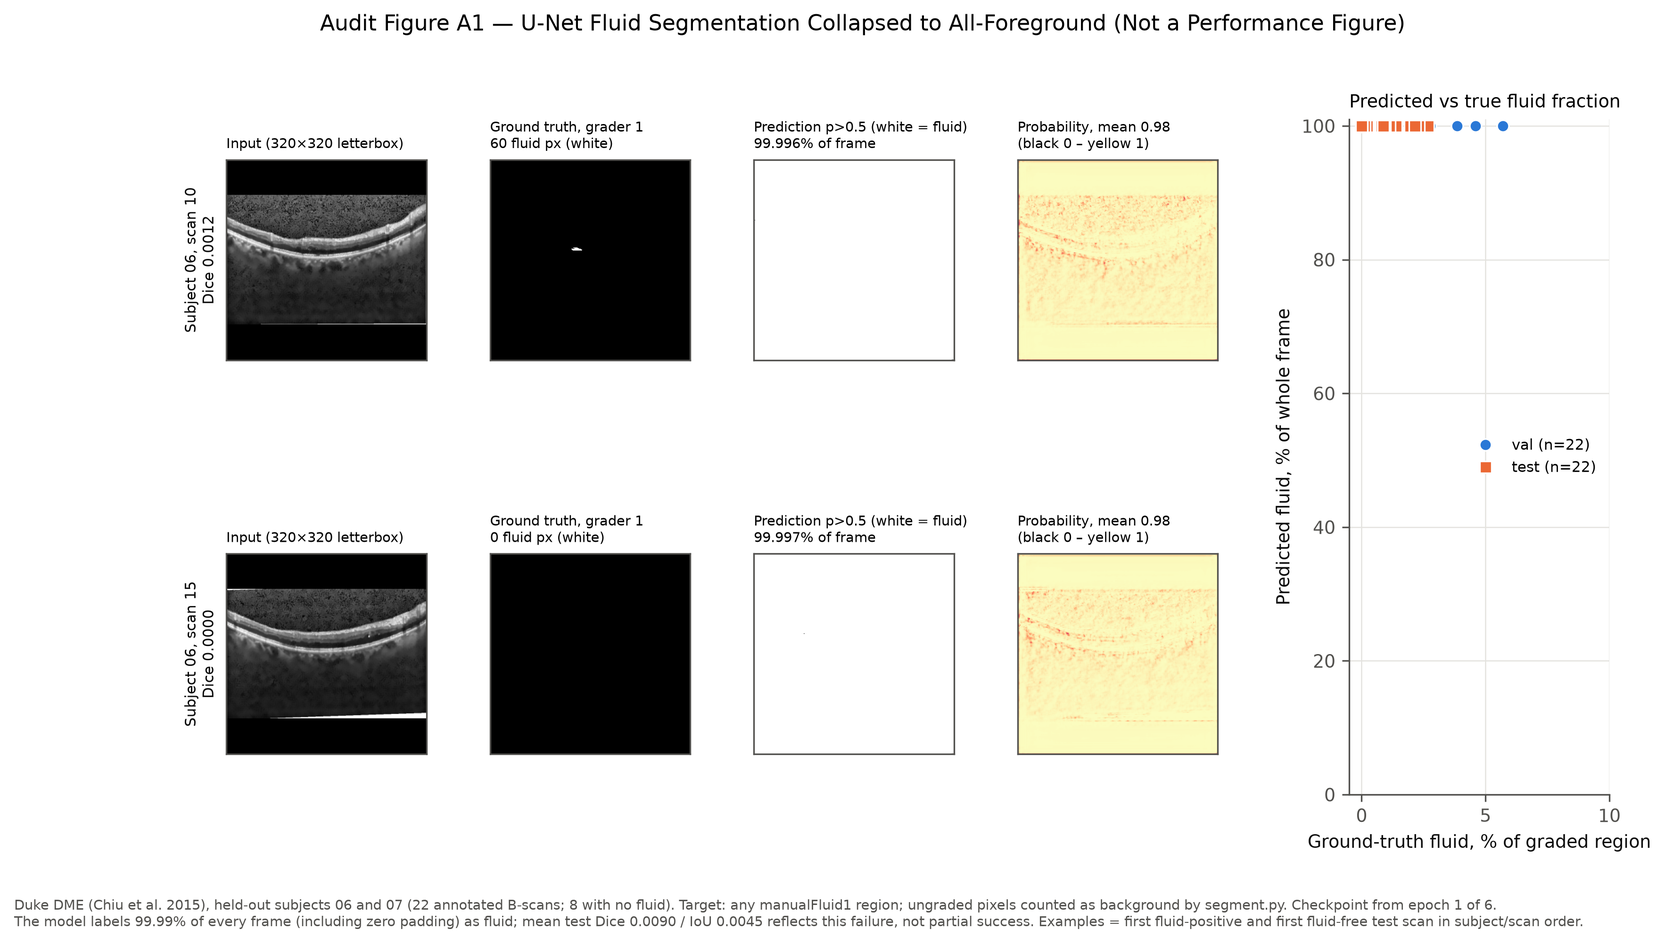
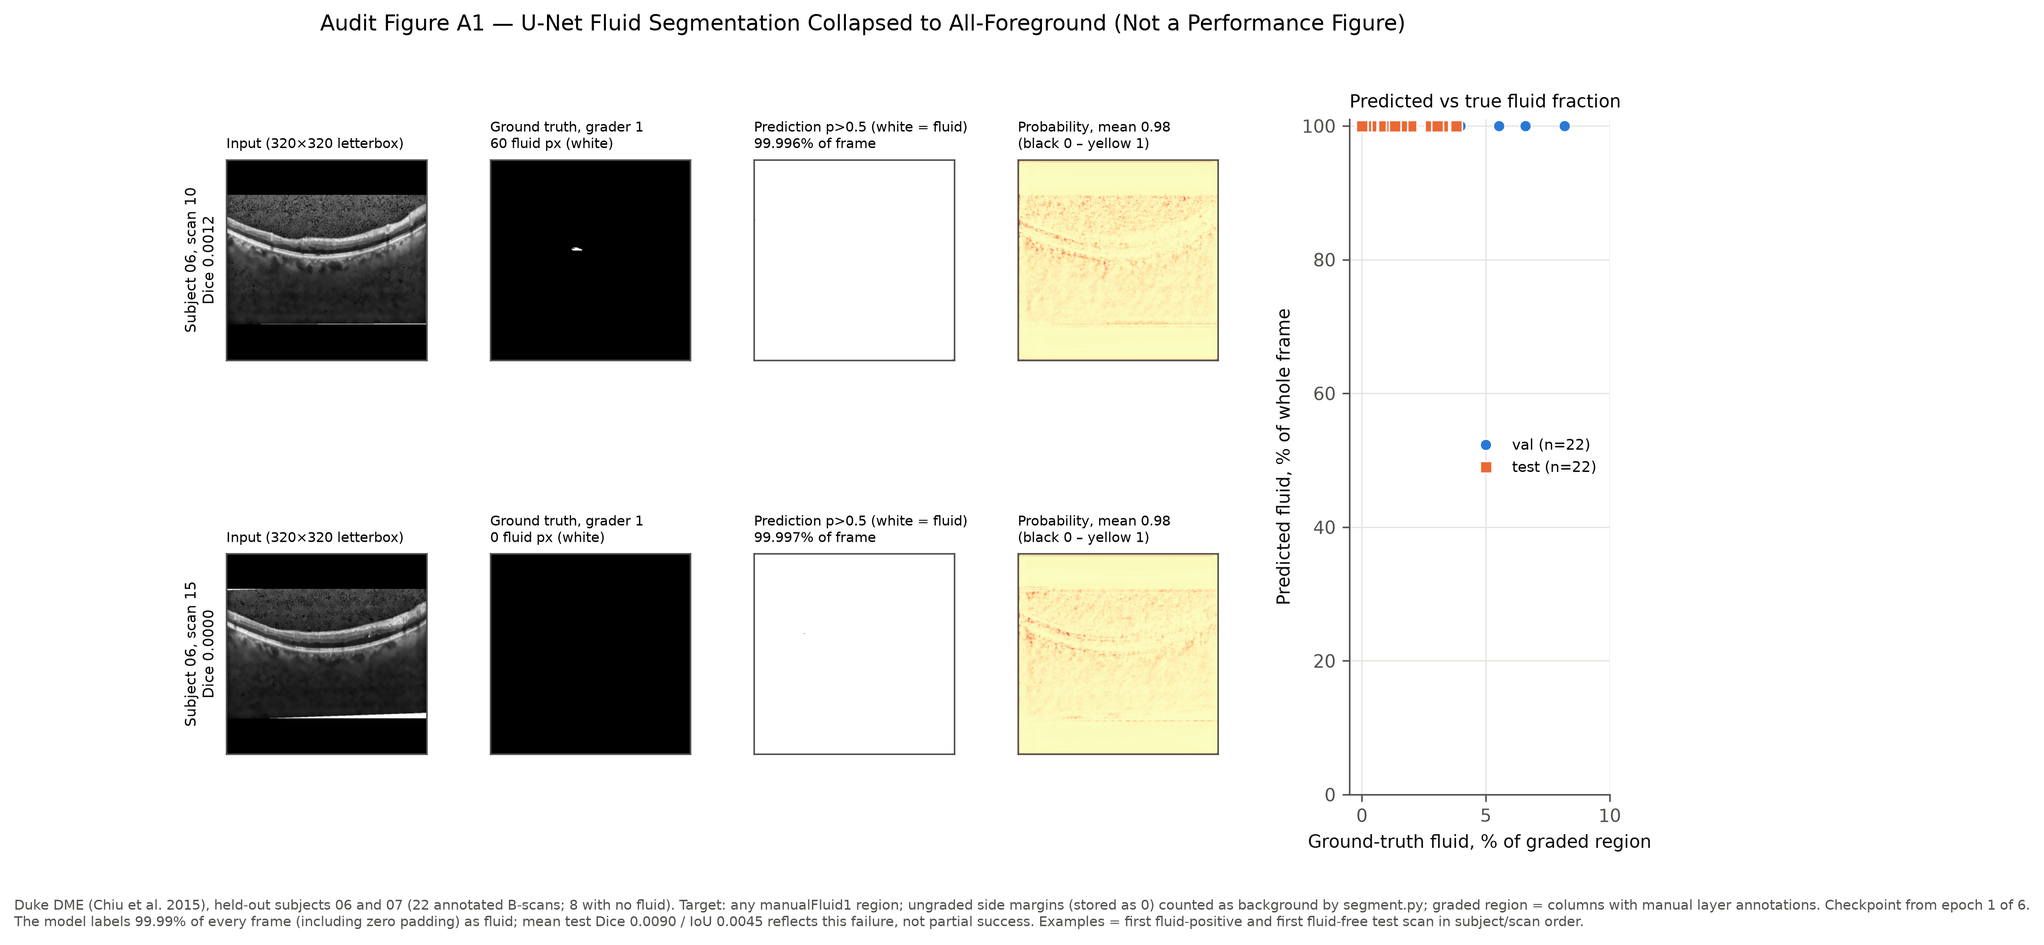
Use the manualLayers column band as the graded region in the segmentation audit
Duke 2015 manualFluid1/2 contain no NaN: the ungraded side margins are stored
as 0. Script 05's ~isnan(manualFluid1) mask therefore covered the whole frame.
The graded region is now the column band where manualLayers1 has coordinates
(500-542 of 768 columns), intersected with the non-NaN mask.

Verified on all 44 val/test scans:
- 0 NaN fluid pixels;
- 0 fluid pixels outside the band for either grader;
- the bands are identical for both graders.

Rerun results (graded-only Dice):
- test 0.0138 -> 0.0196 (pooled 0.0139 -> 0.0204);
- val 0.0212 -> 0.0300 (pooled 0.0217 -> 0.0308).
- Unchanged: pipeline-convention Dice 0.0090, inter-grader Dice 0.758 /
  0.522, and the collapse finding.

Docs corrected: metric_verification.md B4 (NaN premise and graded-only
values), inventory C6, report section 10, the checklist B4 row and issue 4
(now resolved), the Table 1 note, and the Figure A1 caption.
11/11 checks pass; checkpoints and source results are unchanged.

diff --git a/research_outputs/scripts/05_segmentation_audit.py b/research_outputs/scripts/05_segmentation_audit.py
@@ -8,8 +8,12 @@ constructor and Dice/IoU functions, then adds what the original evaluation
 did not report:
   * predicted and ground-truth foreground fractions per image (detects
     "predict everything" / "predict nothing" collapse)
-  * Dice/IoU with segment.py's convention (ungraded NaN -> background) AND
-    restricted to the manually graded region only
+  * Dice/IoU with segment.py's convention (whole frame, ungraded -> background) AND
+    restricted to the manually graded region only. The graded region is the
+    column band where manualLayers1 has coordinates: manualFluid1/2 contain no
+    NaN, and the ungraded side margins are stored as 0 (same as "no fluid").
+    (Corrected 2026-10-28; the first version used ~isnan(manualFluid1), which
+    covers the whole frame.)
   * pooled (pixel-aggregated) Dice in addition to the per-image mean
   * explicit counts of empty-ground-truth images and how they score
   * grader-1 vs grader-2 agreement on the same scans, as a human reference
@@ -60,7 +64,11 @@ def main():
             img = sub["images"][pos]
             f1_raw, f2_raw = sub["fluid1"][pos], sub["fluid2"][pos]
             gt1 = S.binarize_fluid(f1_raw); gt2 = S.binarize_fluid(f2_raw)
-            graded1 = (~np.isnan(f1_raw)).astype(np.uint8)
+            # Graded region = the columns where grader 1 traced layer boundaries. manualFluid stores
+            # ungraded side margins as 0 (no NaN anywhere), so ~isnan(fluid) would be the whole frame.
+            band = ~np.all(np.isnan(sub["layers1"][pos]), axis=0)
+            band2 = ~np.all(np.isnan(sub["layers2"][pos]), axis=0)
+            graded1 = (np.broadcast_to(band, f1_raw.shape) & ~np.isnan(f1_raw)).astype(np.uint8)
             rgb, gt1_lb = S.preprocess_pair(img, gt1)
             _, gt2_lb = S.preprocess_pair(img, gt2)
             _, graded_lb = S.preprocess_pair(img, graded1)
@@ -79,6 +87,9 @@ def main():
             rows.append({
                 "split": split_name, "subject": e["subject"], "scan_idx": e["scan_idx"],
                 "gt_fluid_pixels": int(gt1_lb.sum()), "gt_empty": bool(gt1_lb.sum() == 0),
+                "graded_columns": int(band.sum()), "graded_band_same_both_graders": bool(np.array_equal(band, band2)),
+                "nan_fluid_pixels": int(np.isnan(f1_raw).sum()),
+                "gt1_fluid_outside_band": int(gt1[:, ~band].sum()), "gt2_fluid_outside_band": int(gt2[:, ~band].sum()),
                 "graded_pixels": int(g.sum()), "frame_pixels": int(pred.size), "content_pixels": int(content.sum()),
                 "pred_fluid_pixels": int(pred.sum()), "pred_frac_of_frame": float(pred.mean()), "pred_frac_of_graded": float(pred[g].mean()) if g.any() else np.nan,
                 "gt_frac_of_graded": float(gt1_lb[g].mean()) if g.any() else np.nan,
@@ -107,6 +118,10 @@ def main():
             "mean_gt_frac_of_graded": d.gt_frac_of_graded.mean(), "mean_prob": d.mean_prob.mean(),
             "inter_grader_mean_dice_graded": d.dice_grader2_vs_grader1_graded.mean(),
             "inter_grader_mean_dice_graded_fluid_positive": d[~d.gt_empty].dice_grader2_vs_grader1_graded.mean(),
+            "graded_columns_min_max": [int(d.graded_columns.min()), int(d.graded_columns.max())],
+            "graded_band_same_both_graders_all": bool(d.graded_band_same_both_graders.all()),
+            "nan_fluid_pixels_total": int(d.nan_fluid_pixels.sum()),
+            "fluid_pixels_outside_band_total": int(d.gt1_fluid_outside_band.sum() + d.gt2_fluid_outside_band.sum()),
         }
     with open(OUT / "segmentation_summary.json", "w") as f:
         json.dump(summ, f, indent=2, default=float)

diff --git a/research_outputs/scripts/08_make_figures.py b/research_outputs/scripts/08_make_figures.py
@@ -323,7 +323,7 @@ def figure_a1():
     ax.set(xlim=(-0.5, 10), ylim=(0, 101), xlabel="Ground-truth fluid, % of graded region", ylabel="Predicted fluid, % of whole frame")
     ax.set_title("Predicted vs true fluid fraction", loc="left", fontsize=9); ax.legend(fontsize=7.5, loc="center right")
     fig.suptitle("Audit Figure A1 — U-Net Fluid Segmentation Collapsed to All-Foreground (Not a Performance Figure)", fontsize=11, y=1.0)
-    fig.text(0.0, -0.04, "Duke DME (Chiu et al. 2015), held-out subjects 06 and 07 (22 annotated B-scans; 8 with no fluid). Target: any manualFluid1 region; ungraded pixels counted as background by segment.py. "
+    fig.text(0.0, -0.04, "Duke DME (Chiu et al. 2015), held-out subjects 06 and 07 (22 annotated B-scans; 8 with no fluid). Target: any manualFluid1 region; ungraded side margins (stored as 0) counted as background by segment.py; graded region = columns with manual layer annotations. "
              "Checkpoint from epoch 1 of 6.\nThe model labels 99.99% of every frame (including zero padding) as fluid; mean test Dice 0.0090 / IoU 0.0045 reflects this failure, not partial success. "
              "Examples = first fluid-positive and first fluid-free test scan in subject/scan order.", fontsize=7, color=INK2)
     save(fig, "figureA1_segmentation_audit", pd.DataFrame(rows))

diff --git a/research_outputs/scripts/09_make_tables.py b/research_outputs/scripts/09_make_tables.py
@@ -68,7 +68,7 @@ def main():
          "Eyes / volumes": "10 volumes (61 B-scans each; 11 annotated)", "DME-positive": "NA (all DME subjects)", "DME-negative (Normal)": "NA",
          "Split": f"train 6 / val 2 ({', '.join(seg['val']['subjects'])}) / test 2 ({', '.join(seg['test']['subjects'])}) subjects", "Unit of splitting": "patient",
          "Dimensionality": "2D B-scan", "OCT device": "Heidelberg Spectralis according to the dataset paper (prior knowledge, not re-verified)", "Label source": "manual fluid masks, grader 1 (manualFluid1)",
-         "Independent of training": "Yes (disjoint subjects)", "Notes": "Ungraded (NaN) pixels treated as background by segment.py."},
+         "Independent of training": "Yes (disjoint subjects)", "Notes": "Only a central column band (500-542 of 768 columns) is graded; the ungraded margins are stored as 0, not NaN, so segment.py counts them as background."},
     ]
     write(pd.DataFrame(t1), "table1_dataset_setup", "Table 1. Dataset and experimental setup",
           "Counts computed from files on disk (research_outputs/data/image_hashes.csv). Patient = ID parsed from the Kermany filename; eye and volume identity are not available. No patient counts are inferred from image counts.")

diff --git a/research_outputs/final_audit_checklist.md b/research_outputs/final_audit_checklist.md
@@ -36,7 +36,7 @@ Automated results: `research_outputs/data/final_checks.json` (from `scripts/10_f
 | B2 | Undefined metrics handled explicitly | **PASS** | NaN logic in `04_compute_metrics.py`; none occurred |
 | B3 | 14-point leakage audit | **PASS** | `leakage_audit.md` §1 |
 | B3 | Metadata/dimension-only shortcut classifier | **PASS** | Test AUROC 0.31; unseen-pool AUROC 0.72 |
-| B4 | Segmentation independently re-evaluated | **PASS** (pipeline-convention Dice reconstructed) · graded-region metrics **DEFECT** · segmentation model itself **FAIL** (collapsed) | Dice 0.0090 reproduced; all-foreground collapse documented. The 'graded-only' variant in script 05 masks `~isnan(manualFluid)`, but Duke 2015 stores ungraded side margins as 0, not NaN (verified: 0 NaN pixels; graded columns 118–653 of 768 on Subject_01), so it covers the whole frame. See unresolved issue 4 |
+| B4 | Segmentation independently re-evaluated | **PASS** (reconstructed; graded-region mask corrected) · segmentation model itself **FAIL** (collapsed) | Dice 0.0090 reproduced; all-foreground collapse documented. Graded-only metrics now use the `manualLayers` column band (500–542 of 768 columns; 0 NaN fluid pixels and 0 fluid pixels outside the band on all 44 val/test scans): test Dice 0.0196 (previously 0.0138 on a whole-frame mask); inter-grader Dice unchanged (0.758) |
 | B5 | Calibration audited | **PASS** | Raw vs calibrated reported separately; no material change claimed |
 | B5 | Grad-CAM audited | **PASS** (protocol reviewed) | Not regenerated; no clinical-reasoning claim made |
 | C | 2021 paper read in full incl. supplement | **PASS** | PMC HTML + figshare supplementary tables and methods |
@@ -75,6 +75,6 @@ Audit outputs were added in new directories. The only existing files modified ar
 1. ~~Tuned thresholds and temperatures are invalid~~ **Resolved:** refit on the rebuilt training-time validation split (scripts 11–12). Residual caveat: on the easier test set the refit operating points give perfect or near-perfect counts, and refit scaling worsens test ECE for B3 and B0; validation specificity at 97% sensitivity (0.956–0.982) is the more realistic figure.
 2. **External evidence is limited.** OCTDL (Optovue; AUROC 0.993–0.999, sensitivity at 0.5 0.93–0.96), Duke 2014 (volume AUROC 1.000, but the pre-specified max rule flags 4–9 of 15 normal volumes from off-centre slices) and Duke 2015 (DME only; sensitivity 0.95–0.96) are small public sets, not a clinical cohort. The official test set also appears unrepresentative (easier). The unseen-pool estimate (AUROC 0.996–0.997, accuracy 97.1–97.5%) is the more conservative internal figure.
 3. ~~B0 test-patient exclusion cannot be confirmed from a log~~ **Resolved:** verified via run `20260920T095427Z` (bitwise-identical weights; exclusion logged).
-4. **The segmentation model is non-functional**, and its ground-truth handling of ungraded pixels is flawed. The audit's own 'graded-only' re-evaluation (script 05) has the same flaw: ungraded margins are stored as 0, so its graded mask is the whole frame. The graded region is the column band where `manualLayers` has coordinates. Affected: the model's 'graded-only' Dice in `segmentation_summary.json` (test 0.0138, val 0.0212), which is effectively whole-frame, and the NaN premise in `metric_verification.md` B4 and inventory item C6. Unaffected: the collapse finding, the pipeline-convention Dice (0.0090) and the inter-grader Dice (0.758 test / 0.522 val), because neither grader marks fluid outside the band. Fix: recompute script 05 with the band as the graded mask.
+4. **The segmentation model is non-functional**, and its ground-truth handling of ungraded pixels is flawed (ungraded margins are stored as 0, so `segment.py` scores them as background). ~~The audit's own graded-only re-evaluation used a whole-frame mask~~ **Resolved:** script 05 now uses the `manualLayers` column band as the graded region. Graded-only test Dice is 0.0196 / pooled 0.0204 (val 0.0300 / 0.0308), up from the whole-frame 0.0138; `metric_verification.md` B4, inventory C6 and report §10 are corrected. The collapse finding, the pipeline-convention Dice (0.0090) and the inter-grader Dice (0.758 test / 0.522 val) are unchanged.
 5. ~~Zhu 2025 online supplementary tables not retrieved~~ **Resolved:** supplement read in full. Confusion matrices recompute every metric; per-device and reader-comparison rows were added to `literature_extraction.csv`.
 6. ~~Kermany device and grading details from prior knowledge~~ **Resolved:** verified against the published STAR Methods (archived Cell full text): Spectralis OCT; five centres; July 2013 – March 2017; three-tier grading (students → four ophthalmologists → two senior retinal specialists).

diff --git a/research_outputs/tables/table1_dataset_setup.md b/research_outputs/tables/table1_dataset_setup.md
@@ -5,6 +5,6 @@
 | Kermany OCT2017 (Cell 2018), DME+NORMAL | train/ folder, training pool after exclusion | 30,160 | 3,472 | NR (not encoded in Kermany filenames) | 7,072 | 23,088 | train + validation (StratifiedGroupKFold 5-fold, 1 fold val) | patient | 2D B-scan | Heidelberg Spectralis (Kermany et al. 2018, STAR Methods, verified from the published text; not recorded per image) | Kermany et al. 2018 class folders; three-tier grading (students, 4 ophthalmologists, 2 senior retinal specialists) per STAR Methods | NA | Kaggle runs: train 24,600 / val 5,560 (logged). Per-class split of these two subsets not logged; the local re-run of build_splits gives a different partition (scikit-learn version). |
 | Kermany OCT2017 | test/ folder (official test split) | 484 | 368 | NR (not encoded in Kermany filenames) | 242 | 242 | held-out test | patient (fixed by dataset authors) | 2D B-scan | Heidelberg Spectralis (Kermany et al. 2018, STAR Methods, verified from the published text; not recorded per image) | Kermany et al. 2018 class folders; three-tier grading (students, 4 ophthalmologists, 2 senior retinal specialists) per STAR Methods | Yes, at patient level after exclusion of 305 shared patients from train/val | 368 patients; 6 patients have both DME and Normal images; 0 exact duplicates with the training pool; distribution differs from training (no 512x512 images). |
 | Kermany OCT2017 | train/ images of the 305 test-set patients (excluded from training) | 7,503 | 305 | NR (not encoded in Kermany filenames) | 4,276 | 3,227 | supplementary unseen evaluation pool (NEW in this audit) | patient | 2D B-scan | Heidelberg Spectralis (Kermany et al. 2018, STAR Methods, verified from the published text; not recorded per image) | Kermany et al. 2018 class folders; three-tier grading (students, 4 ophthalmologists, 2 senior retinal specialists) per STAR Methods | Not used for training/validation (verified for B3, ResNet-50; implied for B0); NOT independent of the test set (same patients; 114 byte-identical copies of test images) | All 7,503 images decoded with cv2.imread during re-inference. Across train/+test/, 25 truncated JPEGs are rejected by cv2.imdecode but decode with cv2.imread (with a 'Premature end of JPEG' warning); 0 are unreadable. |
-| Duke DME (Chiu et al. BOE 2015) | segmentation (U-Net) | 110 annotated B-scans | 10 | 10 volumes (61 B-scans each; 11 annotated) | NA (all DME subjects) | NA | train 6 / val 2 (01, 08) / test 2 (06, 07) subjects | patient | 2D B-scan | Heidelberg Spectralis according to the dataset paper (prior knowledge, not re-verified) | manual fluid masks, grader 1 (manualFluid1) | Yes (disjoint subjects) | Ungraded (NaN) pixels treated as background by segment.py. |
+| Duke DME (Chiu et al. BOE 2015) | segmentation (U-Net) | 110 annotated B-scans | 10 | 10 volumes (61 B-scans each; 11 annotated) | NA (all DME subjects) | NA | train 6 / val 2 (01, 08) / test 2 (06, 07) subjects | patient | 2D B-scan | Heidelberg Spectralis according to the dataset paper (prior knowledge, not re-verified) | manual fluid masks, grader 1 (manualFluid1) | Yes (disjoint subjects) | Only a central column band (500-542 of 768 columns) is graded; the ungraded margins are stored as 0, not NaN, so segment.py counts them as background. |
 
 *Counts computed from files on disk (research_outputs/data/image_hashes.csv). Patient = ID parsed from the Kermany filename; eye and volume identity are not available. No patient counts are inferred from image counts.*

diff --git a/research_audit/metric_verification.md b/research_audit/metric_verification.md
@@ -114,12 +114,12 @@ See `research_outputs/data/segmentation_summary.json` and `segmentation_per_imag
 | Item | Verified |
 |---|---|
 | Model | `smp.Unet(encoder="timm-efficientnet-b3")`, encoder initialised from the B3 classifier |
-| Target | Binary fluid mask = any labelled region in Duke `manualFluid1` (grader 1). NaN (ungraded) pixels are counted as background. |
+| Target | Binary fluid mask = any labelled region in Duke `manualFluid1` (grader 1). Only a central band of columns is graded: the columns where `manualLayers` has coordinates, 500–542 of 768 per scan, identical for both graders. `manualFluid1/2` contain **no NaN** on any annotated scan; the ungraded side margins are stored as 0, the same as "graded, no fluid". `segment.py` therefore counts them as background. (Corrected 2026-10-28: this row previously said the ungraded pixels were NaN.) |
 | Data and split | Duke DME (Chiu et al. 2015), 10 subjects × 11 annotated B-scans. Patient split with seed 42: train 6 subjects (66 scans), val 2 (01, 08; 22 scans), test 2 (06, 07; 22 scans). Disjoint by construction; re-derived identically here. |
 | Checkpoint | Epoch **1** of 6 (early stopping; validation Dice never improved after epoch 1) |
 | Threshold | sigmoid > 0.5 |
 | Metric | Per-image Dice and IoU with eps = 1e-7, averaged over images. An empty ground truth with a non-empty prediction scores 0. Test set: 8 of 22 scans have an empty ground truth. |
-| **Reconstructed test Dice / IoU** | **0.0090 / 0.0045** (mean per image; matches the reported 0.0090 / 0.0045). Pooled pixel Dice is 0.0090. Restricted to graded pixels: 0.0139. Fluid-positive scans only: 0.0141. |
+| **Reconstructed test Dice / IoU** | **0.0090 / 0.0045** (mean per image; matches the reported 0.0090 / 0.0045). Pooled pixel Dice is 0.0090. Restricted to the graded column band: mean 0.0196, pooled 0.0204 (val 0.0300 / 0.0308). Fluid-positive scans only: 0.0141. (Corrected 2026-10-28: the first audit masked `~isnan(manualFluid1)`, which is the whole frame, and reported 0.0139 as graded-only.) |
 | **Failure mode** | The model labels **99.995% of every 320×320 frame as fluid**, including the zero padding (mean probability 0.98). This is complete collapse to the positive class. The Phase 4 sign-off's statement that a Dice near 0.01 is "close to what a model predicting almost no foreground would score" is **incorrect**: under this metric, predicting nothing would score 0 on fluid scans and 1 on empty scans. |
-| Human reference | Grader 2 vs grader 1 on the same test scans, graded region only: mean Dice 0.758 (0.620 on fluid-positive scans) |
+| Human reference | Grader 2 vs grader 1 on the same test scans, graded band only: mean Dice 0.758 (0.620 on fluid-positive scans; val 0.522). This value is unchanged by the band correction, because neither grader marks fluid outside the band (0 pixels on all 44 val/test scans). |
 | Verdict | Segmentation is **implemented and evaluated, but the model is non-functional**. No performance figure is produced; an audit finding is reported instead. |

diff --git a/research_audit/repository_inventory.md b/research_audit/repository_inventory.md
@@ -93,7 +93,7 @@ None. The repository has no bibliography, `.bib` file, or literature review. `RE
 | C3 | README: "Calibrated via temperature scaling (ECE 0.0028 → 0.0027)" is presented as a calibration improvement. | The change is 0.0002 on n = 484, the temperature was fitted on contaminated validation data (C1), and for B0/ResNet-50 ECE got slightly worse. | Report as "no material change in calibration". |
 | C4 | Report §3.3: the three architectures are "independent" and "converge on the identical confusion matrix". | All three have 241/1/242/0 at 0.5. | Confirmed in Phase B (same single false negative image). Agreement across architectures does not by itself rule out a shared data artifact, because all three use identical data, preprocessing and split. |
 | C5 | Phase-4 sign-off: "Dice ~0.01 is close to what a model predicting almost no foreground would score". | Under `dice_coefficient` with eps = 1e-7, an empty prediction scores **0** on fluid-positive images and **1** on empty-GT images. A Dice near 0.01 is the signature of predicting **almost everything as foreground**. | Investigated in Phase B4 by regenerating masks. |
-| C6 | `binarize_fluid()` sets NaN (ungraded) pixels to background. | `segment.py:211`. In Duke, manual grading covers only part of each B-scan. | Ungraded regions are scored as true negatives or false positives. This is a label-definition defect that affects Dice/IoU. Documented in Phase B4. |
+| C6 | `binarize_fluid()`'s docstring says ungraded pixels are NaN and maps them to background. In fact `manualFluid1/2` contain no NaN: the ungraded side margins are stored as 0, so they are background either way. | `segment.py:211`. In Duke, manual grading covers only the central column band where `manualLayers` has coordinates (500–542 of 768 columns). | Ungraded margins are scored as true negatives or false positives, and a `~isnan` mask cannot exclude them. This is a label-definition defect that affects Dice/IoU. Documented in Phase B4; the audit's graded-only metrics use the layer band (corrected 2026-10-28). |
 | C7 | README results table lists AUC "1.0000" for both thresholds. | AUROC is threshold-independent. Only one AUROC exists per model. | Clarified in the tables. |
 | C8 | `requirements.txt` pins torch 2.3 / sklearn 1.4 / numpy 1.26. The local environment has torch 2.14 (CPU), sklearn 1.9, numpy 2.4 and Python 3.14. | `pip` versions printed in Phase B. | Re-inference is run in the local environment. Small floating-point differences from the original Kaggle/local evaluation are possible and are checked against `metrics.json`. |
 

diff --git a/research_outputs/research_results_report.md b/research_outputs/research_results_report.md
@@ -245,8 +245,9 @@ It includes **no cross-study statistical test and no relative-improvement claim*
 - The reported test Dice / IoU of 0.0090 / 0.0045 are reproduced exactly (`segmentation_summary.json`).
 - **The model is collapsed:** it labels 99.99% of every 320×320 frame as fluid, including padding, with mean probability 0.98. The checkpoint is from epoch 1 of 6.
 - The phase-4 sign-off's explanation ("predicting almost no foreground") is incorrect.
-- The ground-truth definition counts ungraded pixels as background.
-- Human inter-grader Dice on the same test scans is 0.758 (0.620 on fluid-positive scans).
+- The ground-truth definition counts ungraded pixels as background. Only a central column band (500–542 of 768 columns, where the manual layers are traced) is graded. The ungraded margins are stored as 0, not NaN, so `segment.py` cannot tell them apart from "no fluid".
+- Restricted to that graded band, test Dice is 0.020 (val 0.030), still a collapsed model. An earlier version of this audit masked NaN pixels instead, which covers the whole frame, and reported 0.014 as graded-only (corrected 2026-10-28).
+- Human inter-grader Dice on the same test scans, within the graded band, is 0.758 (0.620 on fluid-positive scans). No fluid is marked outside the band, so this value does not depend on the mask correction.
 - Segmentation performance is therefore **not reported as a result**. Audit Figure A1 documents the failure instead, and no Table 4 is produced.
 
 ## 11. Calibration and explainability
